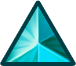
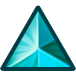
gem medal

diff --git a/public/src/recentgame.js b/public/src/recentgame.js
@@ -77,8 +77,8 @@ function GetRecentGames(_index=0) {
                         case 1: break;
                         default: mki = 'kill' + elem.multi_kill; break;
                     }
-                    if(elem.multi_kill > 5) {
-                        mki = 'kill5';
+                    if(elem.multi_kill > 6) {
+                        mki = 'kill6';
                     }
                     if(mki) {
                         medalHtml = `<div class="medal">`;

diff --git a/public/css/recent.css b/public/css/recent.css
@@ -213,13 +213,17 @@
 .medal {
     margin: auto;
     /* padding: 0px 10px 0px 10px; */
-    /* background-color: #dd5656; */
-    /* border-radius: 20px; */
+    /* background-color: #24292e;
+    border-radius: 20px; */
     /* border: solid 1px #c44040; */
+    width: 25px;
+    height: 25px;
 }
 .medal-icon {
-    width: 31px;
-    height: 28px;
+    /* background-color: #24292e;
+    border-radius: 20px; */
+    width: 25px;
+    height: 25px;
 }
 
 .recent-etc {
